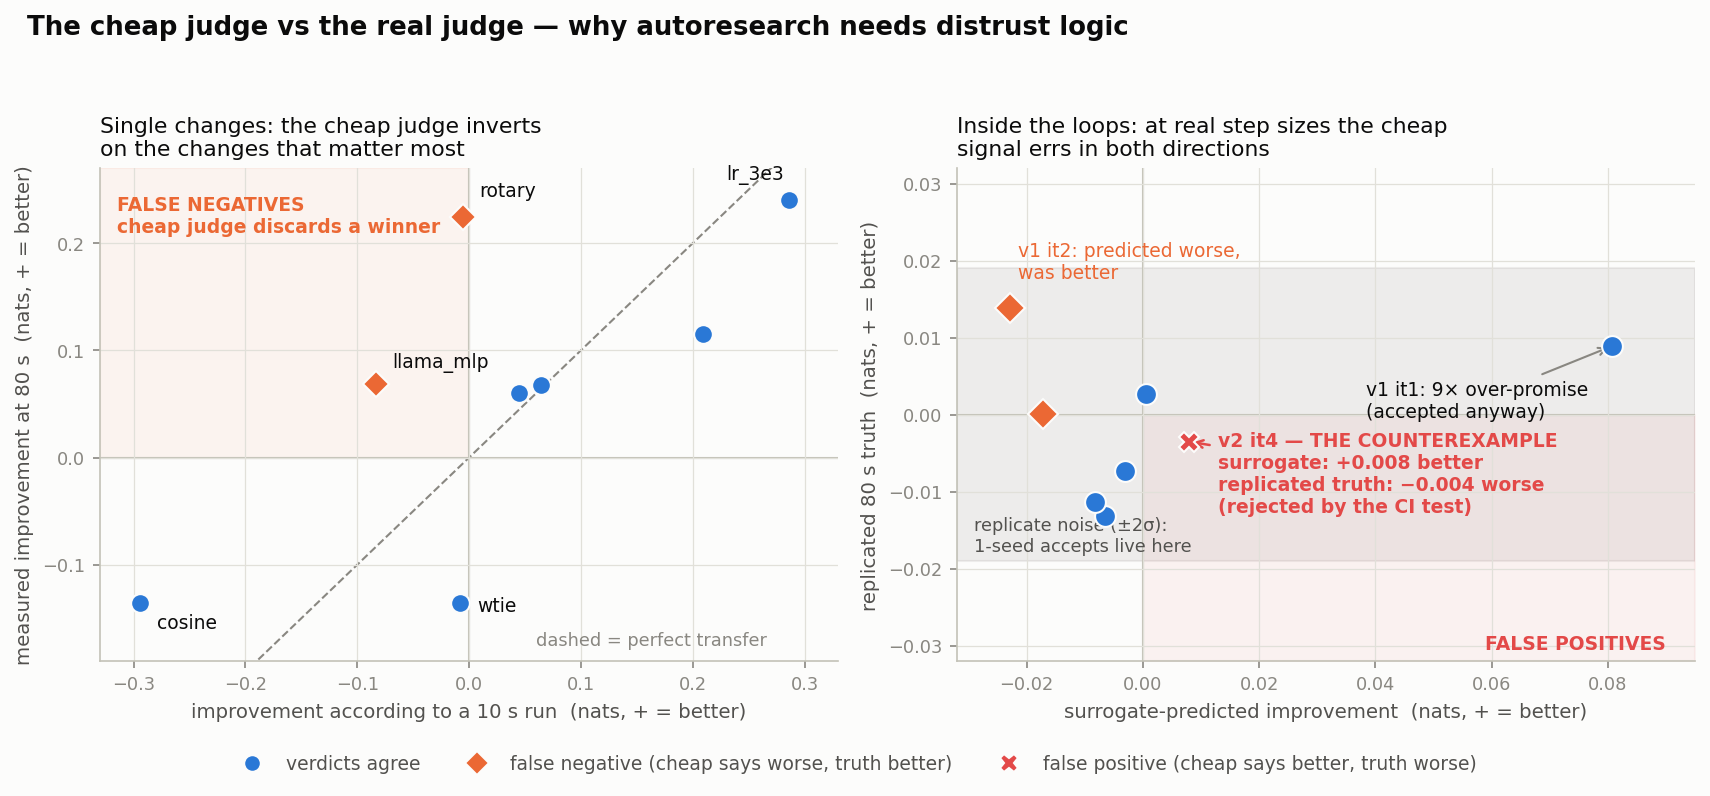
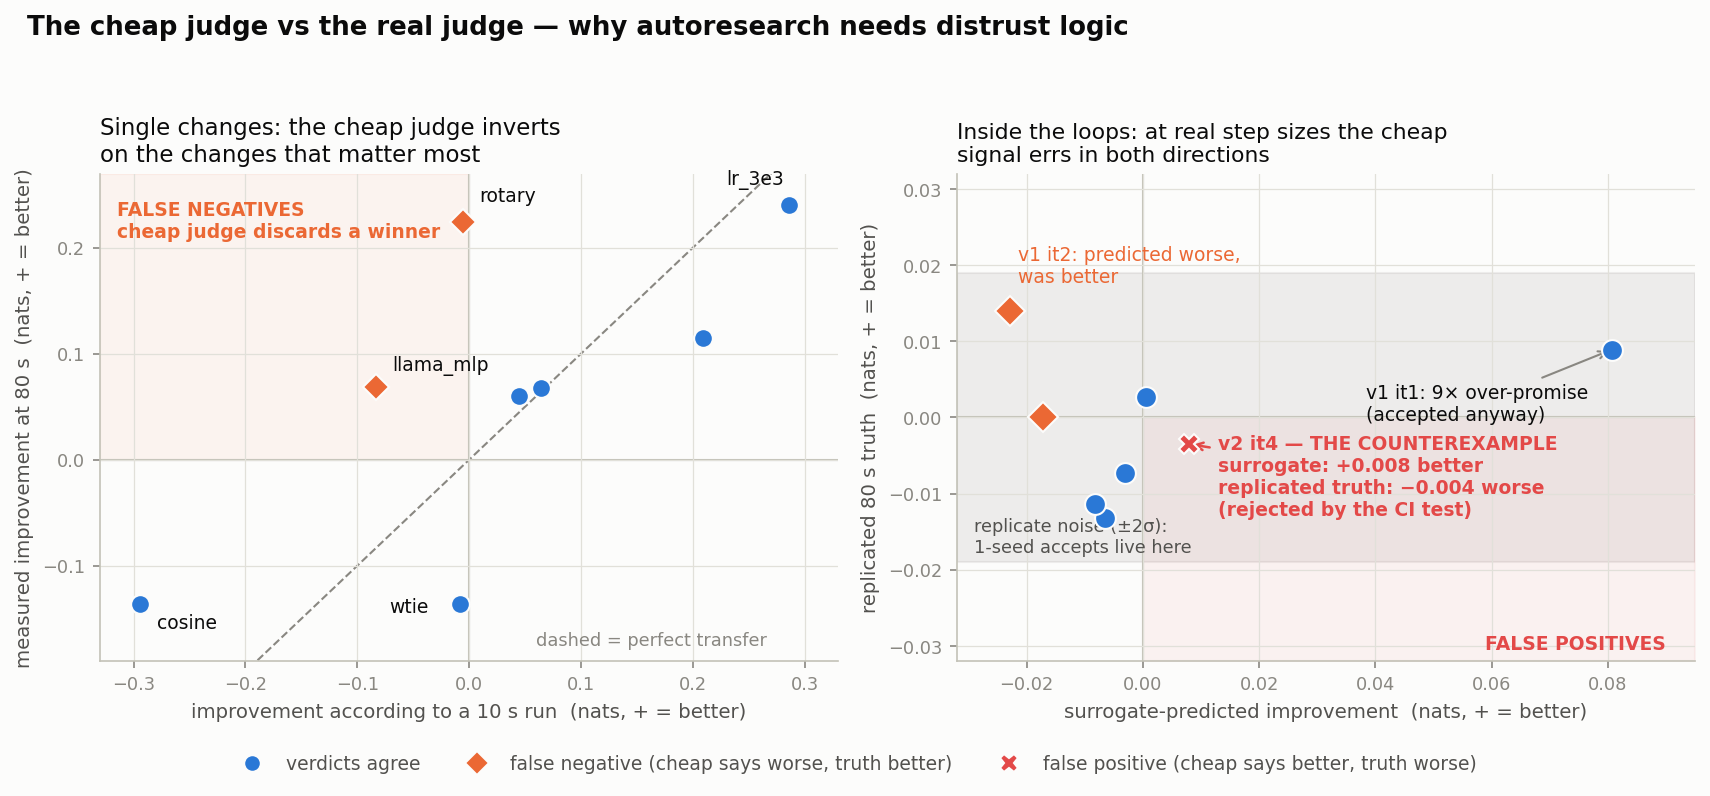
Make the transfer scatter the README headline figure
Standalone left panel of the counterexample figure (10s verdict vs 80s
truth, rotary/RMSNorm+SwiGLU in the false-negative quadrant) now leads
the README; the time-to-match-quality bars move into the flagship
section.

Claude-Session: https://claude.ai/code/session_01F9BVKaNAeZHzo1DMP4oC7X

diff --git a/make_counterexample.py b/make_counterexample.py
@@ -83,11 +83,7 @@ def style_axes(ax, xlabel, ylabel):
     ax.set_facecolor(SURFACE)
 
 
-def main():
-    fig, (axL, axR) = plt.subplots(1, 2, figsize=(11.5, 5.2), dpi=150)
-    fig.patch.set_facecolor(SURFACE)
-
-    # ---- left: sweep transfer ----
+def draw_sweep_panel(axL, title, dashed_caption=True):
     pts = sweep_points()
     lim = 0.33
     axL.fill_betweenx([0, 0.27], -lim, 0, color=C_FN, alpha=0.06, zorder=0)
@@ -96,18 +92,49 @@ def main():
     axL.set_xlim(-lim, lim)
     axL.set_ylim(-0.19, 0.27)
     ann = {"rotary": (8, 10), "llama_mlp": (8, 8), "cosine": (8, -12),
-           "lr_3e3": (-30, 10), "wtie": (8, -4)}
+           "lr_3e3": (-30, 10), "wtie": (-34, -4)}
     for name, x, y in pts:
         if name in ann:
             axL.annotate(name, (x, y), textcoords="offset points",
                          xytext=ann[name], fontsize=9, color=INK)
     axL.text(-0.315, 0.245, "FALSE NEGATIVES\ncheap judge discards a winner",
              fontsize=9, color=C_FN, fontweight="bold", va="top")
-    axL.text(0.06, -0.175, "dashed = perfect transfer", fontsize=8.5, color=MUTED)
+    if dashed_caption:
+        axL.text(0.06, -0.175, "dashed = perfect transfer", fontsize=8.5, color=MUTED)
     style_axes(axL, "improvement according to a 10 s run  (nats, + = better)",
                "measured improvement at 80 s  (nats, + = better)")
-    axL.set_title("Single changes: the cheap judge inverts\non the changes that matter most",
-                  loc="left", color=INK, fontsize=10.5)
+    axL.set_title(title, loc="left", color=INK, fontsize=11)
+    return pts
+
+
+def make_headline_standalone():
+    fig, ax = plt.subplots(figsize=(8.0, 5.8), dpi=150)
+    fig.patch.set_facecolor(SURFACE)
+    draw_sweep_panel(ax, "Cheap experiments judge expensive ones wrong —\n"
+                         "exactly on the changes that matter most",
+                     dashed_caption=False)
+    from matplotlib.lines import Line2D
+    handles = [Line2D([], [], marker="o", ls="", color=C_AGREE, ms=8, mec=SURFACE,
+                      label="verdicts agree"),
+               Line2D([], [], marker="D", ls="", color=C_FN, ms=8, mec=SURFACE,
+                      label="false negative: 10 s judge rejects an 80 s winner"),
+               Line2D([], [], ls="--", color=MUTED, lw=1.2,
+                      label="perfect transfer")]
+    ax.legend(handles=handles, loc="lower right", frameon=False, fontsize=9,
+              labelcolor=INK2)
+    fig.tight_layout()
+    out = os.path.join(RESULTS, "headline_transfer.png")
+    fig.savefig(out, facecolor=SURFACE, bbox_inches="tight")
+    print("wrote", out)
+
+
+def main():
+    fig, (axL, axR) = plt.subplots(1, 2, figsize=(11.5, 5.2), dpi=150)
+    fig.patch.set_facecolor(SURFACE)
+
+    # ---- left: sweep transfer ----
+    draw_sweep_panel(axL, "Single changes: the cheap judge inverts\n"
+                          "on the changes that matter most")
 
     # ---- right: campaign step sizes ----
     axR.axhspan(-0.019, 0.019, color=MUTED, alpha=0.13, zorder=0)
@@ -157,3 +184,4 @@ def main():
 
 if __name__ == "__main__":
     main()
+    make_headline_standalone()

diff --git a/README.md b/README.md
@@ -97,16 +97,26 @@ changes, something a forward-only greedy loop can never do.
 
 ## The one-figure summary
 
-![headline](results/headline.png)
+![headline](results/headline_transfer.png)
+
+Each point is one recipe change, judged twice: by a cheap 10-second
+training run (x-axis) and by the real 80-second target (y-axis). If cheap
+verdicts transferred, every point would hug the dashed diagonal. Instead the
+two most valuable architecture changes — **rotary embeddings** (worth 4×
+training time) and RMSNorm+SwiGLU — sit in the false-negative quadrant: the
+cheap judge would have discarded them. That is the assumption every
+low-fidelity autoresearch loop makes silently, made measurable — and why
+this repo wraps the loop in trust-region distrust logic (§ below).
+(Regenerate: `python make_counterexample.py`.)
+
+## Flagship result
+
+![time to match quality](results/headline.png)
 
 **The metric: time-to-match-quality.** For each recipe, solve its fitted
 scaling law for the training time that reaches the baseline's 80-second
-loss. Autoresearch compressed 80 s of training into ~8 s — a ~10×
-effective-training-time multiplier — with the learning rate alone worth
-2.7× and the full stack worth the rest. (Regenerate with
-`python make_headline.py`; single-seed fits, replicate sd ≈ 0.01 nats.)
-
-## Flagship result
+loss: autoresearch compressed 80 s of training into ~8 s (`python
+make_headline.py`).
 
 **The winning stack (`combo` = lr 3e-3 + rotary + RMSNorm/SwiGLU + dropout 0 +
 batch 128) reaches the baseline's 80-second loss in under 10 seconds — a